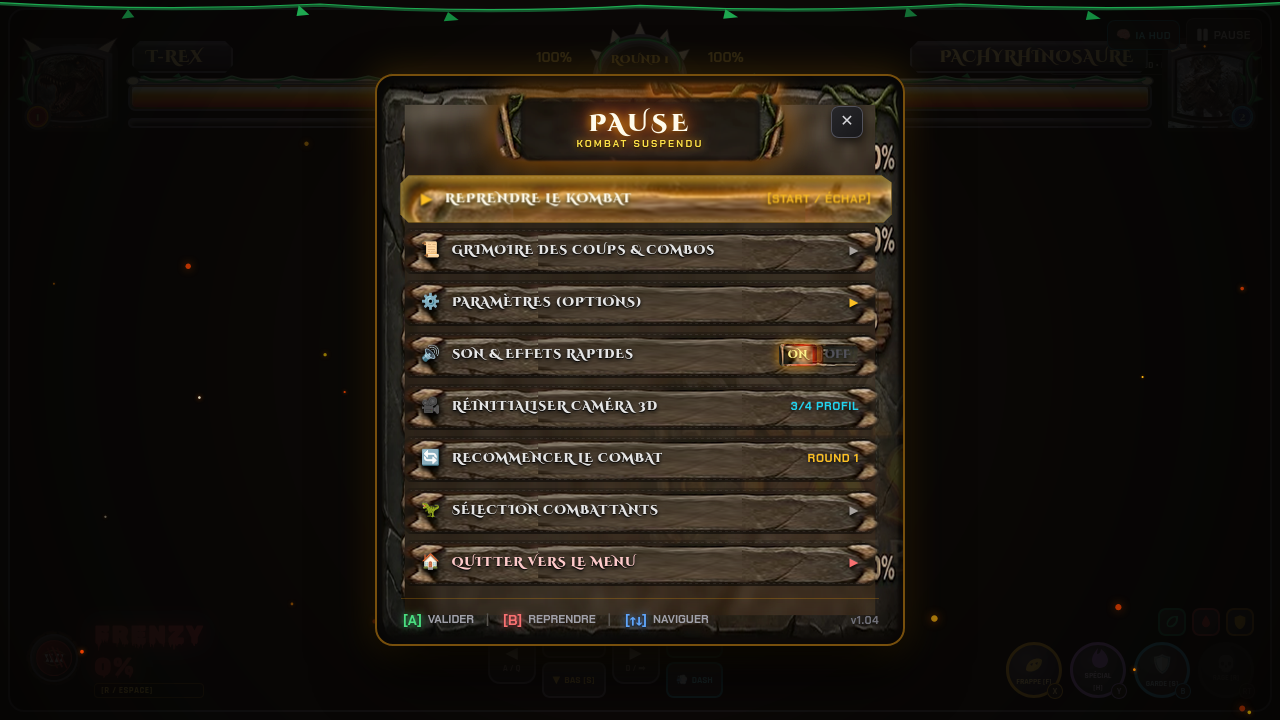
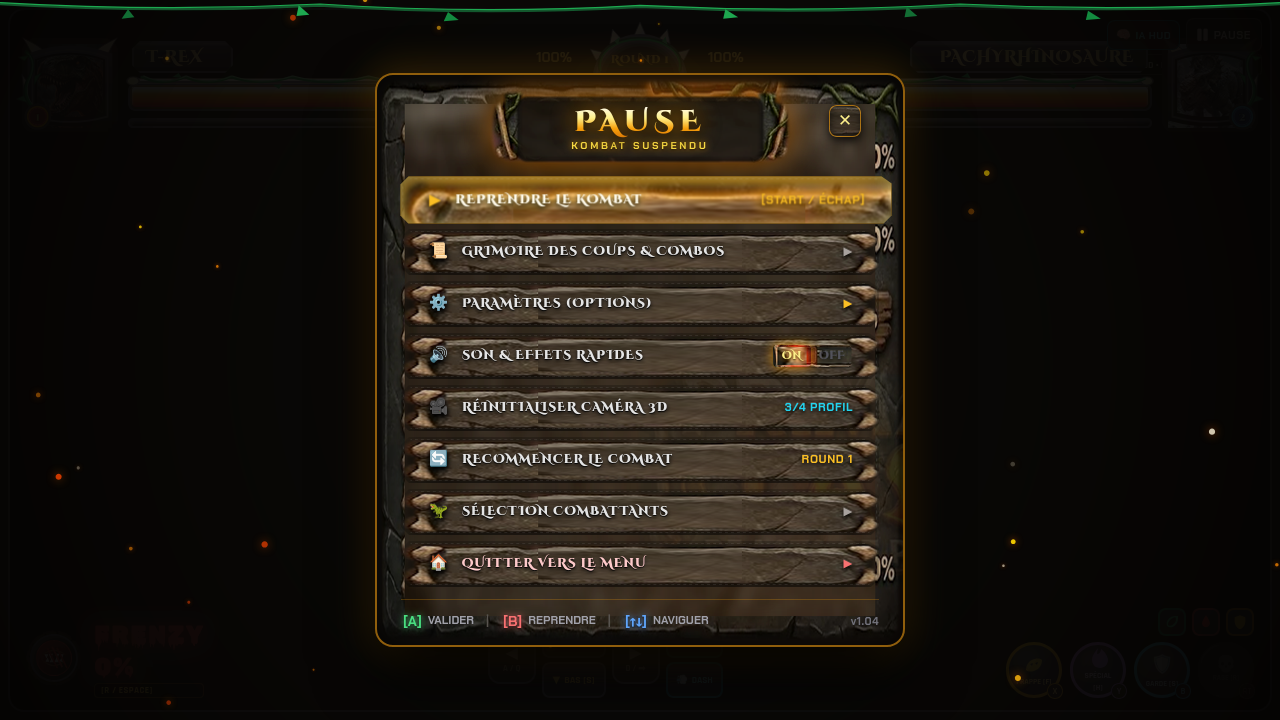
improve pause ui

Changed region(s): [[0.3125, 0.0917, 0.7188, 0.9167], [0.6875, 0.2139, 0.7188, 0.2444], [0.5938, 0.7944, 0.625, 0.825]]

diff --git a/tools/test_pause_functionality.js b/tools/test_pause_functionality.js
@@ -1,0 +1,236 @@
+const fs = require('fs');
+const path = require('path');
+const vm = require('vm');
+
+console.log("=== Testing Pause Menu Functionality ===");
+
+// 1. Mock Complete DOM and Browser Environment
+let isMatchPaused = false;
+let currentScreen = 'battle';
+let matchStarted = false;
+let selectReturned = false;
+let mainMenuReturned = false;
+let camOrbit = { yaw: 0, pitch: 0 };
+let sfx = {
+    enabled: true,
+    playHit: () => {},
+    playWhoosh: () => {},
+    setMasterVolume: (v) => {}
+};
+
+const elements = {};
+function createElement(tag = 'div', id = '') {
+    const el = {
+        tagName: tag.toUpperCase(),
+        id: id,
+        classList: {
+            classes: new Set(),
+            add(c) { this.classes.add(c); },
+            remove(c) { this.classes.delete(c); },
+            contains(c) { return this.classes.has(c); },
+            toggle(c, force) {
+                if (force !== undefined) {
+                    if (force) this.classes.add(c); else this.classes.delete(c);
+                } else {
+                    if (this.classes.has(c)) this.classes.delete(c); else this.classes.add(c);
+                }
+            }
+        },
+        get className() {
+            return Array.from(this.classList.classes).join(' ');
+        },
+        set className(val) {
+            this.classList.classes = new Set(val.split(/\s+/).filter(Boolean));
+        },
+        style: {},
+        attributes: {},
+        setAttribute(k, v) { this.attributes[k] = v; },
+        getAttribute(k) { return this.attributes[k] || null; },
+        listeners: {},
+        addEventListener(event, fn) {
+            if (!this.listeners[event]) this.listeners[event] = [];
+            this.listeners[event].push(fn);
+        },
+        click() {
+            if (this.listeners['click']) {
+                this.listeners['click'].forEach(fn => fn({ target: this }));
+            }
+        },
+        querySelectorAll(selector) {
+            const res = [];
+            if (selector.includes('.stone-slab-btn')) {
+                for (let k in elements) {
+                    if (elements[k].classList && elements[k].classList.contains('stone-slab-btn')) {
+                        res.push(elements[k]);
+                    }
+                }
+            }
+            return res;
+        },
+        appendChild(child) {},
+        insertAdjacentHTML(pos, html) {}
+    };
+    if (id) elements[id] = el;
+    return el;
+}
+
+global.window = {
+    innerWidth: 1280,
+    innerHeight: 720,
+    addEventListener: () => {},
+    removeEventListener: () => {}
+};
+global.requestAnimationFrame = (fn) => setTimeout(fn, 16);
+global.cancelAnimationFrame = (id) => clearTimeout(id);
+
+global.document = {
+    getElementById: (id) => elements[id] || null,
+    querySelectorAll: (selector) => {
+        const res = [];
+        if (selector.includes('#pauseOptionsList')) {
+            const listIds = [
+                'btnPauseResume',
+                'btnPauseMoves',
+                'btnPauseSettings',
+                'btnPauseAudio',
+                'btnPauseResetCam',
+                'btnPauseRestart',
+                'btnPauseSelect',
+                'btnPauseMainMenu'
+            ];
+            listIds.forEach(id => { if (elements[id]) res.push(elements[id]); });
+        }
+        return res;
+    },
+    createElement: (tag) => createElement(tag)
+};
+
+// Mock UIKit
+global.UIKit = {
+    signal: (val) => {
+        let _val = val;
+        return {
+            get value() { return _val; },
+            set value(v) { _val = v; }
+        };
+    },
+    computed: (fn) => fn(),
+    Dialog: function(opts) {
+        const dialogEl = createElement('div', opts.id);
+        if (opts.className) {
+            opts.className.split(/\s+/).forEach(c => dialogEl.classList.add(c));
+        }
+        this.el = dialogEl;
+        this.mount = (target, position) => {
+            // parse innerHTML to instantiate simulated child buttons
+            const ids = [
+                'pauseCanvas',
+                'pauseMonolithCard',
+                'btnPauseClose',
+                'pauseOptionsList',
+                'btnPauseResume',
+                'btnPauseMoves',
+                'btnPauseSettings',
+                'btnPauseAudio',
+                'pauseSoundIcon',
+                'pauseAudioCapsule',
+                'pauseAudioBtnOn',
+                'pauseAudioBtnOff',
+                'btnPauseResetCam',
+                'btnPauseRestart',
+                'btnPauseSelect',
+                'btnPauseMainMenu'
+            ];
+            ids.forEach(id => {
+                const btn = createElement('button', id);
+                if (id.startsWith('btnPause')) {
+                    btn.classList.add('stone-slab-btn');
+                    btn.classList.add('pause-bone-btn');
+                }
+            });
+        };
+    }
+};
+
+global.sfx = sfx;
+global.camOrbit = camOrbit;
+global.isMatchPaused = isMatchPaused;
+global.startMatch = () => { matchStarted = true; };
+global.returnToSelect = () => { selectReturned = true; };
+global.goToMainMenu = () => { mainMenuReturned = true; };
+global.openSettingsModal = () => { currentScreen = 'settings'; };
+global.spawnFloatingPopup = () => {};
+
+// Load and evaluate header.js
+const headerCode = fs.readFileSync(path.join(__dirname, '../js/menus/header.js'), 'utf8');
+vm.runInThisContext(headerCode);
+
+console.log("1. Initializing Header Menu...");
+initHeaderMenu();
+
+console.log("2. Testing openPauseMenu()...");
+openPauseMenu();
+if (!global.isMatchPaused) throw new Error("Match should be paused!");
+const modal = document.getElementById('pauseModal');
+if (modal.classList.contains('hidden')) throw new Error("pauseModal should not have hidden class!");
+console.log("   -> Pause menu opened successfully. isMatchPaused:", global.isMatchPaused);
+
+console.log("3. Testing getPauseNavButtons()...");
+const navButtons = getPauseNavButtons();
+console.log("   -> Found navigation buttons count:", navButtons.length);
+if (navButtons.length !== 8) throw new Error(`Expected 8 buttons, got ${navButtons.length}`);
+
+console.log("4. Testing focus update...");
+pauseFocusIdx = 2; // Paramètres
+updatePauseFocus();
+if (!navButtons[2].classList.contains('active')) throw new Error("Button at index 2 should be active!");
+if (navButtons[0].classList.contains('active')) throw new Error("Button at index 0 should NOT be active!");
+console.log("   -> Focus update verified.");
+
+console.log("5. Testing Audio Toggle button...");
+const btnAudio = document.getElementById('btnPauseAudio');
+const btnAudioOn = document.getElementById('pauseAudioBtnOn');
+const btnAudioOff = document.getElementById('pauseAudioBtnOff');
+console.log("   -> Audio initial:", sfx.enabled);
+btnAudio.click();
+console.log("   -> After click 1:", sfx.enabled);
+if (sfx.enabled !== false) throw new Error("sfx.enabled should be false!");
+if (btnAudioOn.classList.contains('active')) throw new Error("btnOn should be inactive!");
+if (!btnAudioOff.classList.contains('active')) throw new Error("btnOff should be active!");
+
+btnAudio.click();
+console.log("   -> After click 2:", sfx.enabled);
+if (sfx.enabled !== true) throw new Error("sfx.enabled should be true!");
+if (!btnAudioOn.classList.contains('active')) throw new Error("btnOn should be active!");
+if (btnAudioOff.classList.contains('active')) throw new Error("btnOff should be inactive!");
+
+console.log("6. Testing Resume button...");
+const btnResume = document.getElementById('btnPauseResume');
+btnResume.click();
+if (global.isMatchPaused) throw new Error("Match should not be paused after resume!");
+if (!modal.classList.contains('hidden')) throw new Error("Modal should be hidden after resume!");
+console.log("   -> Resume successful.");
+
+console.log("7. Testing Restart match button...");
+openPauseMenu();
+const btnRestart = document.getElementById('btnPauseRestart');
+btnRestart.click();
+if (!matchStarted) throw new Error("startMatch should have been called!");
+if (global.isMatchPaused) throw new Error("Match should unpause on restart!");
+console.log("   -> Restart successful.");
+
+console.log("8. Testing Return to Select button...");
+openPauseMenu();
+const btnSelect = document.getElementById('btnPauseSelect');
+btnSelect.click();
+if (!selectReturned) throw new Error("returnToSelect should have been called!");
+console.log("   -> Select returned successful.");
+
+console.log("9. Testing Return to Main Menu button...");
+openPauseMenu();
+const btnMainMenu = document.getElementById('btnPauseMainMenu');
+btnMainMenu.click();
+if (!mainMenuReturned) throw new Error("goToMainMenu should have been called!");
+console.log("   -> Main Menu return successful.");
+
+console.log("\nALL PAUSE MENU FUNCTIONALITY TESTS PASSED! 🎉");

diff --git a/css/style.css b/css/style.css
@@ -1398,9 +1398,9 @@ canvas {
     width: 100vw;
     height: 100vh;
     z-index: 90;
-    background: radial-gradient(circle at center, rgba(16, 12, 10, 0.82) 0%, rgba(5, 4, 3, 0.95) 100%);
-    backdrop-filter: blur(8px) brightness(0.68) saturate(1.2);
-    -webkit-backdrop-filter: blur(8px) brightness(0.68) saturate(1.2);
+    background: radial-gradient(circle at center, rgba(14, 11, 9, 0.90) 0%, rgba(4, 3, 2, 0.97) 100%);
+    backdrop-filter: blur(10px) brightness(0.65) saturate(1.2);
+    -webkit-backdrop-filter: blur(10px) brightness(0.65) saturate(1.2);
     display: flex;
     justify-content: center;
     align-items: center;
@@ -1423,16 +1423,13 @@ canvas {
     z-index: 20;
     width: 100%;
     max-width: 530px;
-    background-image: url('../assets/ui/settings_main_slab.png');
-    background-size: 100% 100%;
-    background-repeat: no-repeat;
-    background-color: #12100e;
+    background: #14110e url('../assets/ui/settings_main_slab.png') no-repeat center / 100% 100%;
     border-radius: 18px;
-    border: 2px solid rgba(245, 158, 11, 0.45);
+    border: 2px solid rgba(245, 158, 11, 0.55);
     box-shadow: 
-        inset 0 0 45px rgba(0, 0, 0, 0.92),
+        inset 0 0 50px rgba(0, 0, 0, 0.95),
         0 24px 60px rgba(0, 0, 0, 0.98),
-        0 0 35px rgba(245, 158, 11, 0.25);
+        0 0 40px rgba(245, 158, 11, 0.28);
     padding: 16px 24px 14px 24px;
     display: flex;
     flex-direction: column;
@@ -1477,8 +1474,8 @@ canvas {
 
 .pause-title-plaque-wrapper {
     position: relative;
-    width: 330px;
-    height: 74px;
+    width: 340px;
+    height: 76px;
     display: flex;
     align-items: center;
     justify-content: center;
@@ -1507,56 +1504,55 @@ canvas {
 
 .pause-title-text {
     font-family: 'Cinzel Decorative', serif;
-    font-size: 1.48rem;
+    font-size: 1.85rem;
     font-weight: 900;
-    letter-spacing: 0.16em;
-    color: #fffbeb;
-    text-shadow: 
-        0 0 10px #f59e0b,
-        0 0 22px #ea580c,
-        0 0 35px #dc2626,
-        0 2px 4px #000;
+    letter-spacing: 0.18em;
+    background: linear-gradient(180deg, #fffbeb 0%, #fef08a 35%, #f59e0b 70%, #d97706 100%);
+    -webkit-background-clip: text;
+    -webkit-text-fill-color: transparent;
+    filter: drop-shadow(0 0 12px rgba(245, 158, 11, 0.95)) drop-shadow(0 2px 4px #000);
     margin: 0;
-    line-height: 1.1;
+    line-height: 1.05;
 }
 
 .pause-subtitle-text {
     font-family: 'Chakra Petch', sans-serif;
-    font-size: 0.62rem;
+    font-size: 0.64rem;
     font-weight: 800;
-    letter-spacing: 0.22em;
+    letter-spacing: 0.26em;
     color: #fde047;
     text-transform: uppercase;
-    text-shadow: 0 1px 3px #000, 0 0 8px rgba(245, 158, 11, 0.85);
+    text-shadow: 0 0 8px rgba(245, 158, 11, 0.9), 0 1px 2px #000;
 }
 
 .pause-close-btn {
     position: absolute;
     top: 14px;
-    right: 16px;
+    right: 18px;
     z-index: 25;
     width: 32px;
     height: 32px;
     border-radius: 8px;
-    background: linear-gradient(135deg, #27272a 0%, #18181b 100%);
-    border: 1.5px solid #52525b;
-    color: #d4d4d8;
-    font-size: 1rem;
+    background-image: url('../assets/ui/stone_label_slab.png');
+    background-size: cover;
+    background-position: center;
+    border: 1.5px solid rgba(245, 158, 11, 0.6);
+    color: #fef08a;
+    font-size: 1.05rem;
     font-weight: 900;
     display: flex;
     align-items: center;
     justify-content: center;
     cursor: pointer;
-    box-shadow: 0 4px 10px rgba(0, 0, 0, 0.6);
+    box-shadow: 0 4px 10px rgba(0, 0, 0, 0.8), inset 0 0 8px rgba(0, 0, 0, 0.6);
     transition: all 0.18s ease;
 }
 
 .pause-close-btn:hover {
-    background: linear-gradient(135deg, #7f1d1d 0%, #450a0a 100%);
     border-color: #ef4444;
     color: #fee2e2;
     transform: scale(1.08);
-    box-shadow: 0 0 14px rgba(239, 68, 68, 0.75);
+    box-shadow: 0 0 16px rgba(239, 68, 68, 0.85);
 }
 
 .pause-options-list {
@@ -1572,7 +1568,7 @@ canvas {
     width: 100%;
     min-height: 44px;
     height: 46px;
-    padding: 0 20px;
+    padding: 0 26px 0 28px;
     background-image: url('../assets/ui/stone_slab_normal.png');
     background-size: 100% 100%;
     background-repeat: no-repeat;
@@ -1604,7 +1600,7 @@ canvas {
 .pause-bone-btn-left {
     display: flex;
     align-items: center;
-    gap: 10px;
+    gap: 12px;
     pointer-events: none;
 }
 

diff --git a/js/menus/header.js b/js/menus/header.js
@@ -165,10 +165,11 @@ pauseModalRoot.mount(document.getElementById('appMain'), 'afterend');
 function startPauseEmbers() {
     if (pauseEmbersRunning) return;
     const canvas = document.getElementById('pauseCanvas');
-    if (!canvas) return;
+    if (!canvas || typeof canvas.getContext !== 'function') return;
 
     pauseEmbersRunning = true;
     const ctx = canvas.getContext('2d');
+    if (!ctx) return;
     let width = (canvas.width = window.innerWidth);
     let height = (canvas.height = window.innerHeight);
 
@@ -252,7 +253,7 @@ function stopPauseEmbers() {
         pauseEmbersAnimId = null;
     }
     const canvas = document.getElementById('pauseCanvas');
-    if (canvas) {
+    if (canvas && typeof canvas.getContext === 'function') {
         const ctx = canvas.getContext('2d');
         if (ctx) ctx.clearRect(0, 0, canvas.width, canvas.height);
     }
